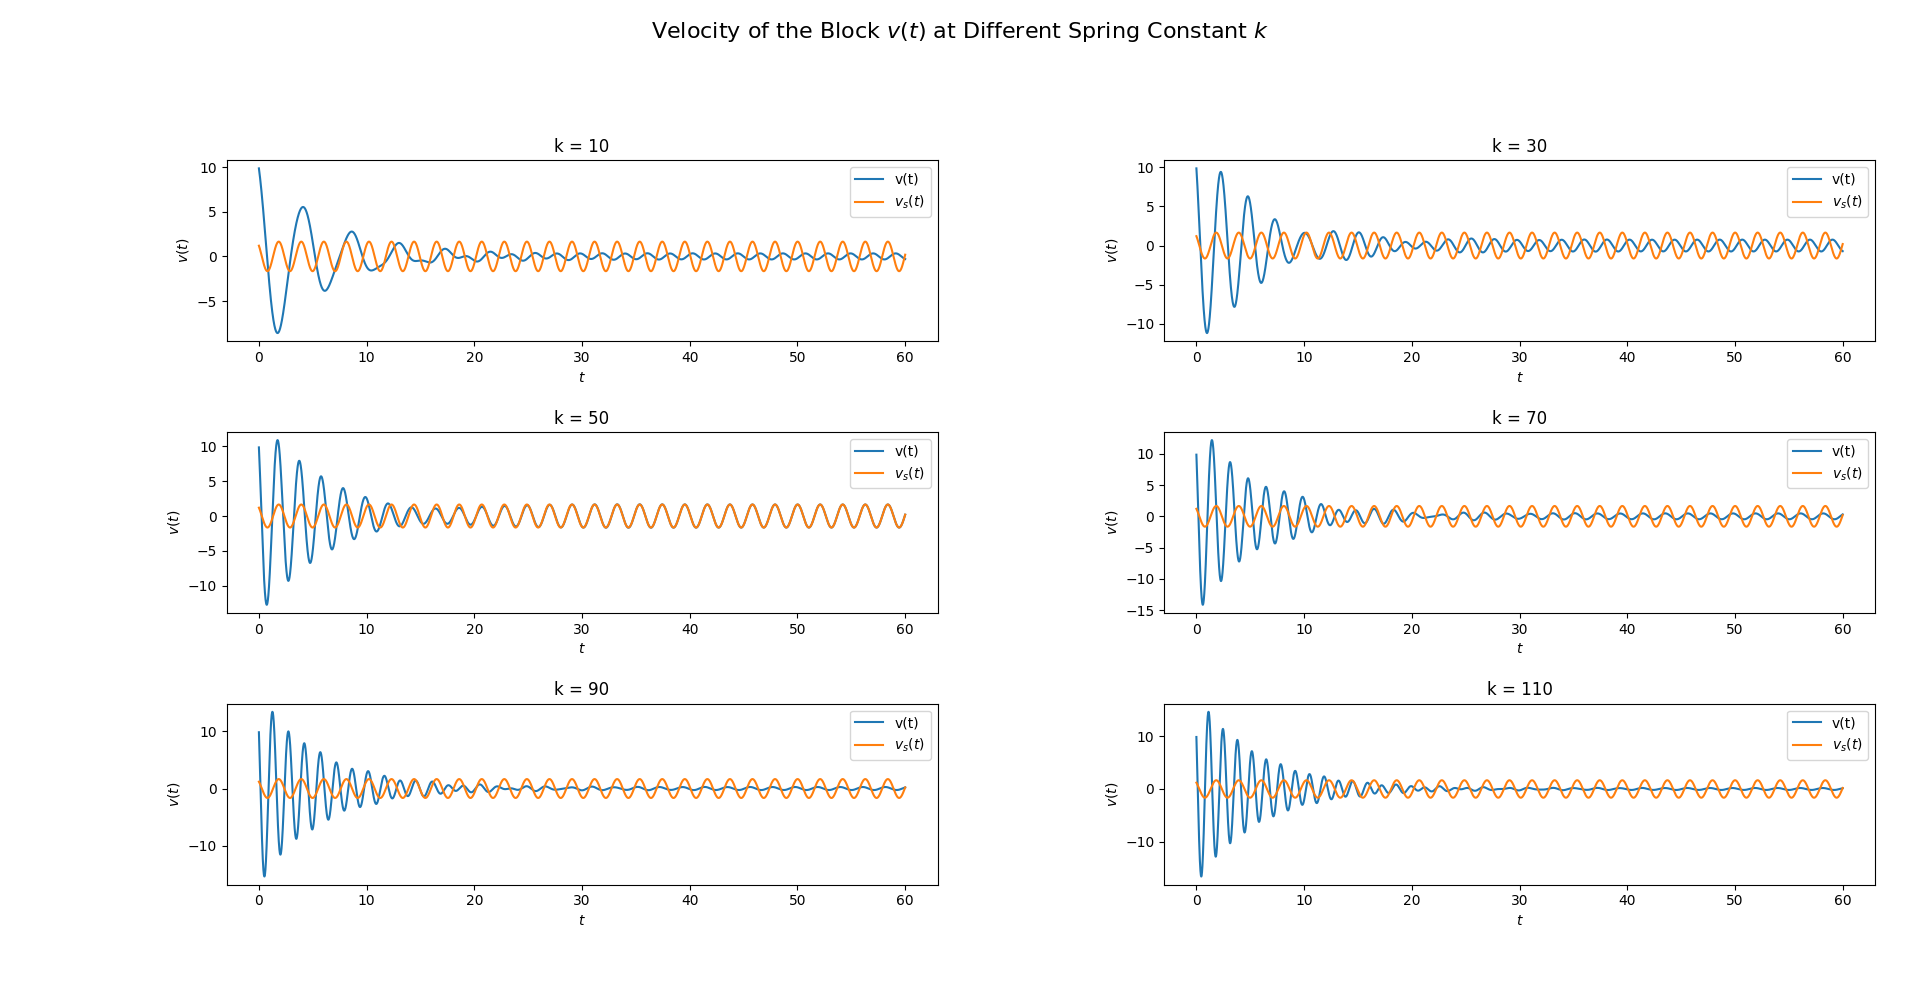
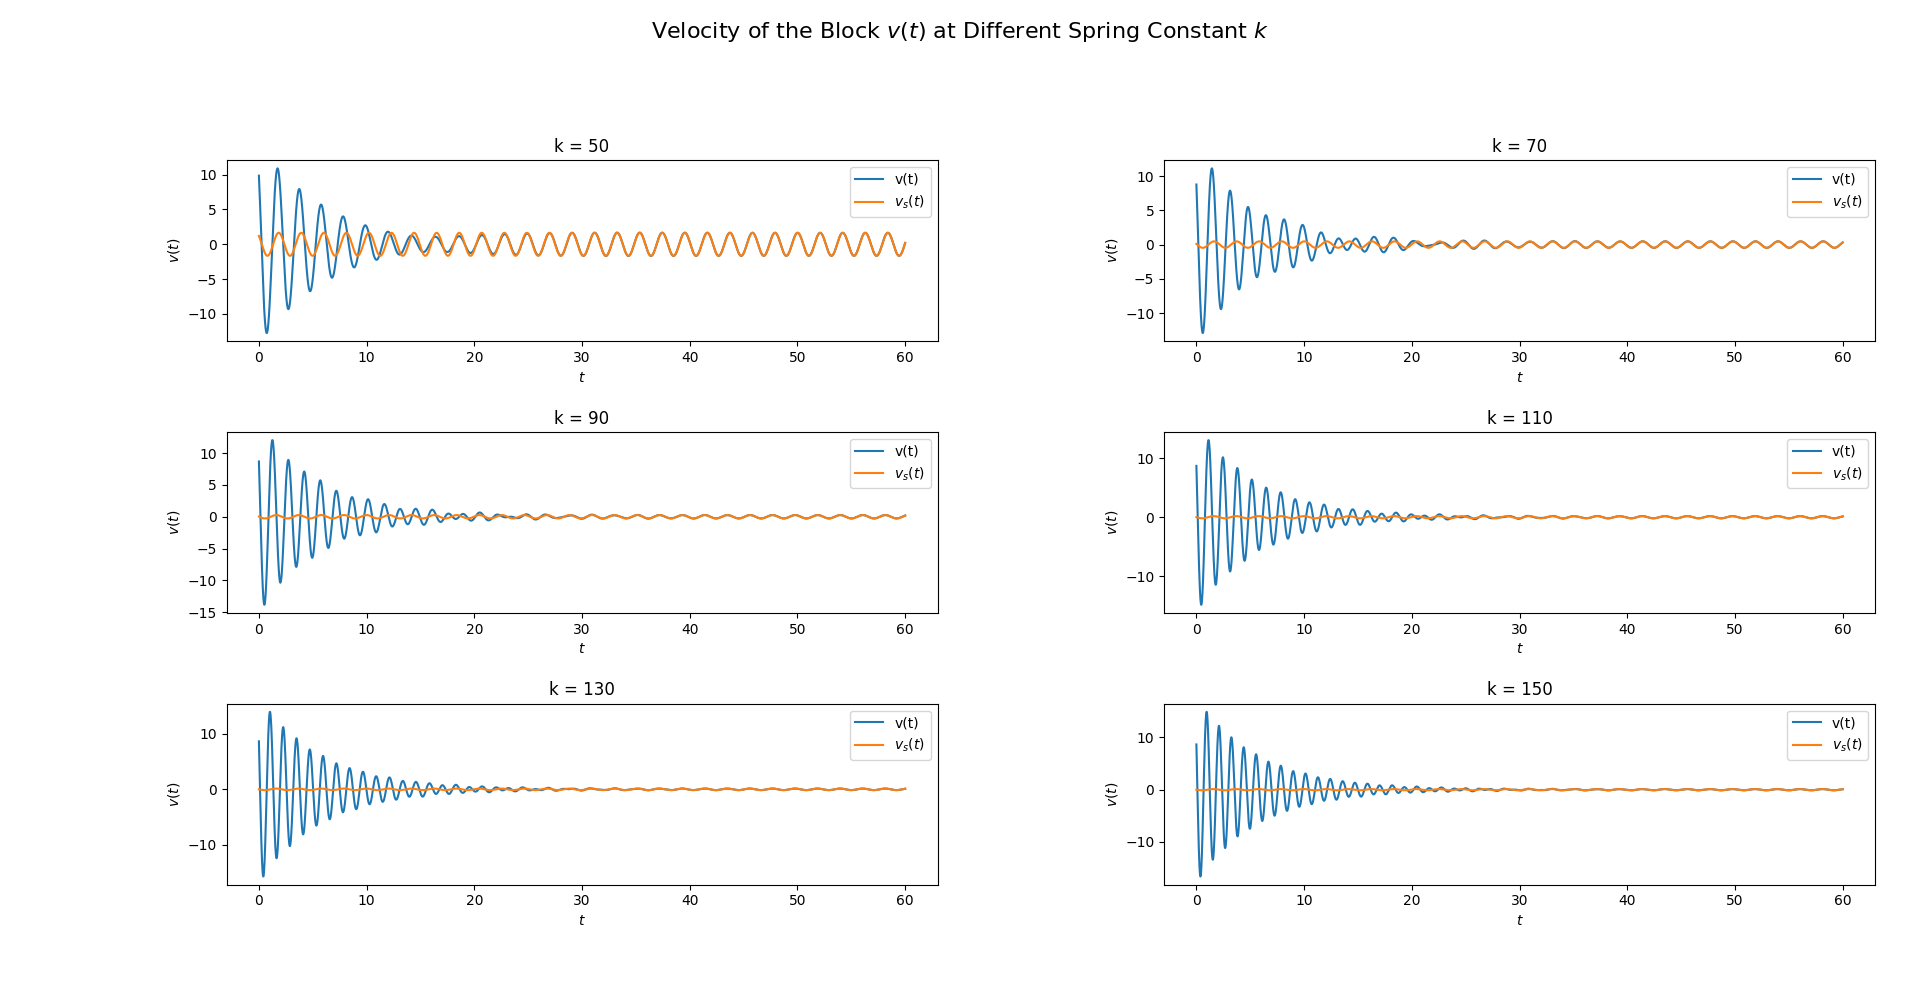
Fixed "dependent constants" in Environment()
"Constants" that depend on other constants in Environment() is now updated automatically upon Func() call by passing the expression of "dependent constant" as string at declaration.

Updated documentation in Func.py
Updated main.py for the issue of "dependent constants" in Environment()

diff --git a/main.py b/main.py
@@ -35,7 +35,7 @@ dataset = {
         "OMEGA_0" : 3,
         "dm"      : [1, 2, 3, 4],
         "dc"      : [0.1, 0.5, 1, 1.5, 2, 2.5],
-        "dk"      : [10, 30, 50, 70, 90, 110],
+        "dk"      : [50, 70, 90, 110, 130, 150],
         "dF0"     : [1, 2, 3, 4],
         "dOMEGA_0": [1, 2, 3]
     },
@@ -59,7 +59,15 @@ t = np.arange(0, 60, 1e-3)  # time interval
 #####################
 
 #### ENVIRONMENT ####
-env = Environment()
+env = Environment(
+        m = None,
+        c = None,
+        k = None,
+        F0 = None,
+        OMEGA_0 = None,
+        OMEGA = "sqrt(k/m)",  # known when k and m are given
+        phi = "arctan(c * OMEGA_0 / (m * ((OMEGA**2) - (OMEGA_0**2)) ))"  # known when c , OMEGA_0 , m , k are given
+)
 
 # function at steady state of the block
 x_s = env.newF(
@@ -114,7 +122,7 @@ def validate_data(case, c, m, k, OMEGA_0):
     return True
 
 
-def solve_ode2(m, c, k, F0, OMEGA_0, OMEGA, PHI, time = np.arange(0, 60, 1e-3)):
+def solve_ode2(m, c, k, F0, OMEGA_0, time = np.arange(0, 60, 1e-3)):
     """
     Solving 2nd-order Ordinary Differential Equation
     mx" + cx' + kx = F0*cos(OMEGA_0 * t)
@@ -124,8 +132,8 @@ def solve_ode2(m, c, k, F0, OMEGA_0, OMEGA, PHI, time = np.arange(0, 60, 1e-3)):
     :param k: spring constant  (N/m)
     :param F0: amplitude of external driving force  (N)
     :param OMEGA_0: driving frequency
-    :param OMEGA: angular frequency
-    :param PHI: phase constant
+    # :param OMEGA: angular frequency
+    # :param PHI: phase constant
     :param time: time interval of type numpy.array()
     :return: tuple : (displacement x, velocity x')
     """
@@ -141,8 +149,8 @@ def solve_ode2(m, c, k, F0, OMEGA_0, OMEGA, PHI, time = np.arange(0, 60, 1e-3)):
             k = k,
             F0 = F0,
             OMEGA_0 = OMEGA_0,
-            OMEGA = OMEGA,
-            phi = PHI
+            # OMEGA = OMEGA,
+            # phi = PHI
     )
     
     # compute ODE
@@ -181,13 +189,13 @@ for case in ["Under-damping"]:  # dataset.keys():
             k = k,
             F0 = F0,
             OMEGA_0 = OMEGA_0,
-            OMEGA = np.sqrt(k/m),
-            phi = np.arctan(c*OMEGA_0/(m*((OMEGA**2) - (OMEGA_0**2))))
+            # OMEGA = "sqrt(k/m)",
+            # phi = "arctan(c * OMEGA_0 / (m * ((OMEGA**2) - (OMEGA_0**2)) ))"
     )
     
     # Solving 2nd-order Ordinary Differential Equation
     # mx" + cx' + kx = F0*cos(OMEGA_0 * t)
-    x, v = solve_ode2(m, c, k, F0, OMEGA_0, OMEGA, PHI, t)
+    x, v = solve_ode2(m, c, k, F0, OMEGA_0, t)
     
     ##### graph plotting for PART (A) #####
     f1 = [t, x]
@@ -235,7 +243,7 @@ for case in ["Under-damping"]:  # dataset.keys():
         validate_data(case, c, _m, k, OMEGA_0)
         
         # solve ODE
-        _x, _v = solve_ode2(_m, c, k, F0, OMEGA_0, OMEGA, PHI, t)
+        _x, _v = solve_ode2(_m, c, k, F0, OMEGA_0, t)
         
         # append to data list
         x_dm.append(_x)
@@ -246,15 +254,18 @@ for case in ["Under-damping"]:  # dataset.keys():
         validate_data(case, _c, m, k, OMEGA_0)
         
         # solve ODE
-        _x, _v = solve_ode2(m, _c, k, F0, OMEGA_0, OMEGA, PHI, t)
+        _x, _v = solve_ode2(m, _c, k, F0, OMEGA_0, t)
         
         # append to data list
         x_dc.append(_x)
         v_dc.append(_v)
         
     for _k in dk:
+        # validate data
+        validate_data(case, c, m, _k, OMEGA_0)
+        
         # solve ODE
-        _x, _v = solve_ode2(m, c, _k, F0, OMEGA_0, OMEGA, PHI, t)
+        _x, _v = solve_ode2(m, c, _k, F0, OMEGA_0, t)
         
         # append to data list
         x_dk.append(_x)
@@ -262,7 +273,7 @@ for case in ["Under-damping"]:  # dataset.keys():
         
     for _F0 in dF0:
         # solve ODE
-        _x, _v = solve_ode2(m, c, k, _F0, OMEGA_0, OMEGA, PHI, t)
+        _x, _v = solve_ode2(m, c, k, _F0, OMEGA_0, t)
         
         # append to data list
         x_dF0.append(_x)
@@ -273,7 +284,7 @@ for case in ["Under-damping"]:  # dataset.keys():
         validate_data(case, c, m, k, _OMEGA_0)
         
         # solve ODE
-        _x, _v = solve_ode2(m, c, k, F0, _OMEGA_0, OMEGA, PHI, t)
+        _x, _v = solve_ode2(m, c, k, F0, _OMEGA_0, t)
         
         # append to data list
         x_dOMEGA_0.append(_x)

diff --git a/Func.py b/Func.py
@@ -23,6 +23,10 @@ class Environment:
     ie. Func() class can use the updated value of constant from its parent Environment() class
         if the constants in parent class is being updated
     
+    If some constants depend on other constants, simply pass a string instead
+    ie. env.setConstants(a = 1, b = "2*a + 1")
+    Note that the value of constants is evaluated only when Func() is being called
+    
     Usage :
     env = Environment(
             F0 = 1,
@@ -62,6 +66,17 @@ class Environment:
             g = 9.81  # new constant g = 9.81
     )
     print(env2.getConstants())  # get constants of env2
+    
+    
+    ##### Constant that depends on other constants #####
+    env3 = Environment(a = 1, b = "2*a")  # Environment with constant a = 1 and b = 2a, pass "2*a" as string
+    # note that b = 2a should be defined only after a is defined
+    # ie. first define "a" in Environment() , then define b = 2a
+    f = env3.newF("a + b", "f")  # define function which return a + b
+    print(f())  # 3
+    
+    env3.setConstants(a = 2)  # set a = 2 => b = 2*a = 4
+    print(f())  # 6
     """
     
     def __init__(self, constants = None, name = None, **kwargs):
@@ -89,16 +104,20 @@ class Environment:
     def setConstants(self, constants = None, **kwargs):
         """
         Define constants and its value
+        If you wish to define constant that depends on other constants,
+        pass the expression as string instead (see example below).
+        Note that "independent constant" should be defined before related "dependent constant" is defined
         
         Usage :
         env = Environment()  # define environment
         env.setConstant(a = 1, b = 2)  # create new constant a = 1, b = 2
         env.setConstant(a = 3)  # update value of existing constant a to be 3
+        env.setConstant(c = "2*a + 3*b")  # create new constant c = 2a + 3b which depends on a and b
         
         const = {
             "a": 4,
             "b": 5,
-            "c": 6
+            "c": "2*a + 3*b"
         }
         env.setConstant(const)  # update / add constants from dict
         
